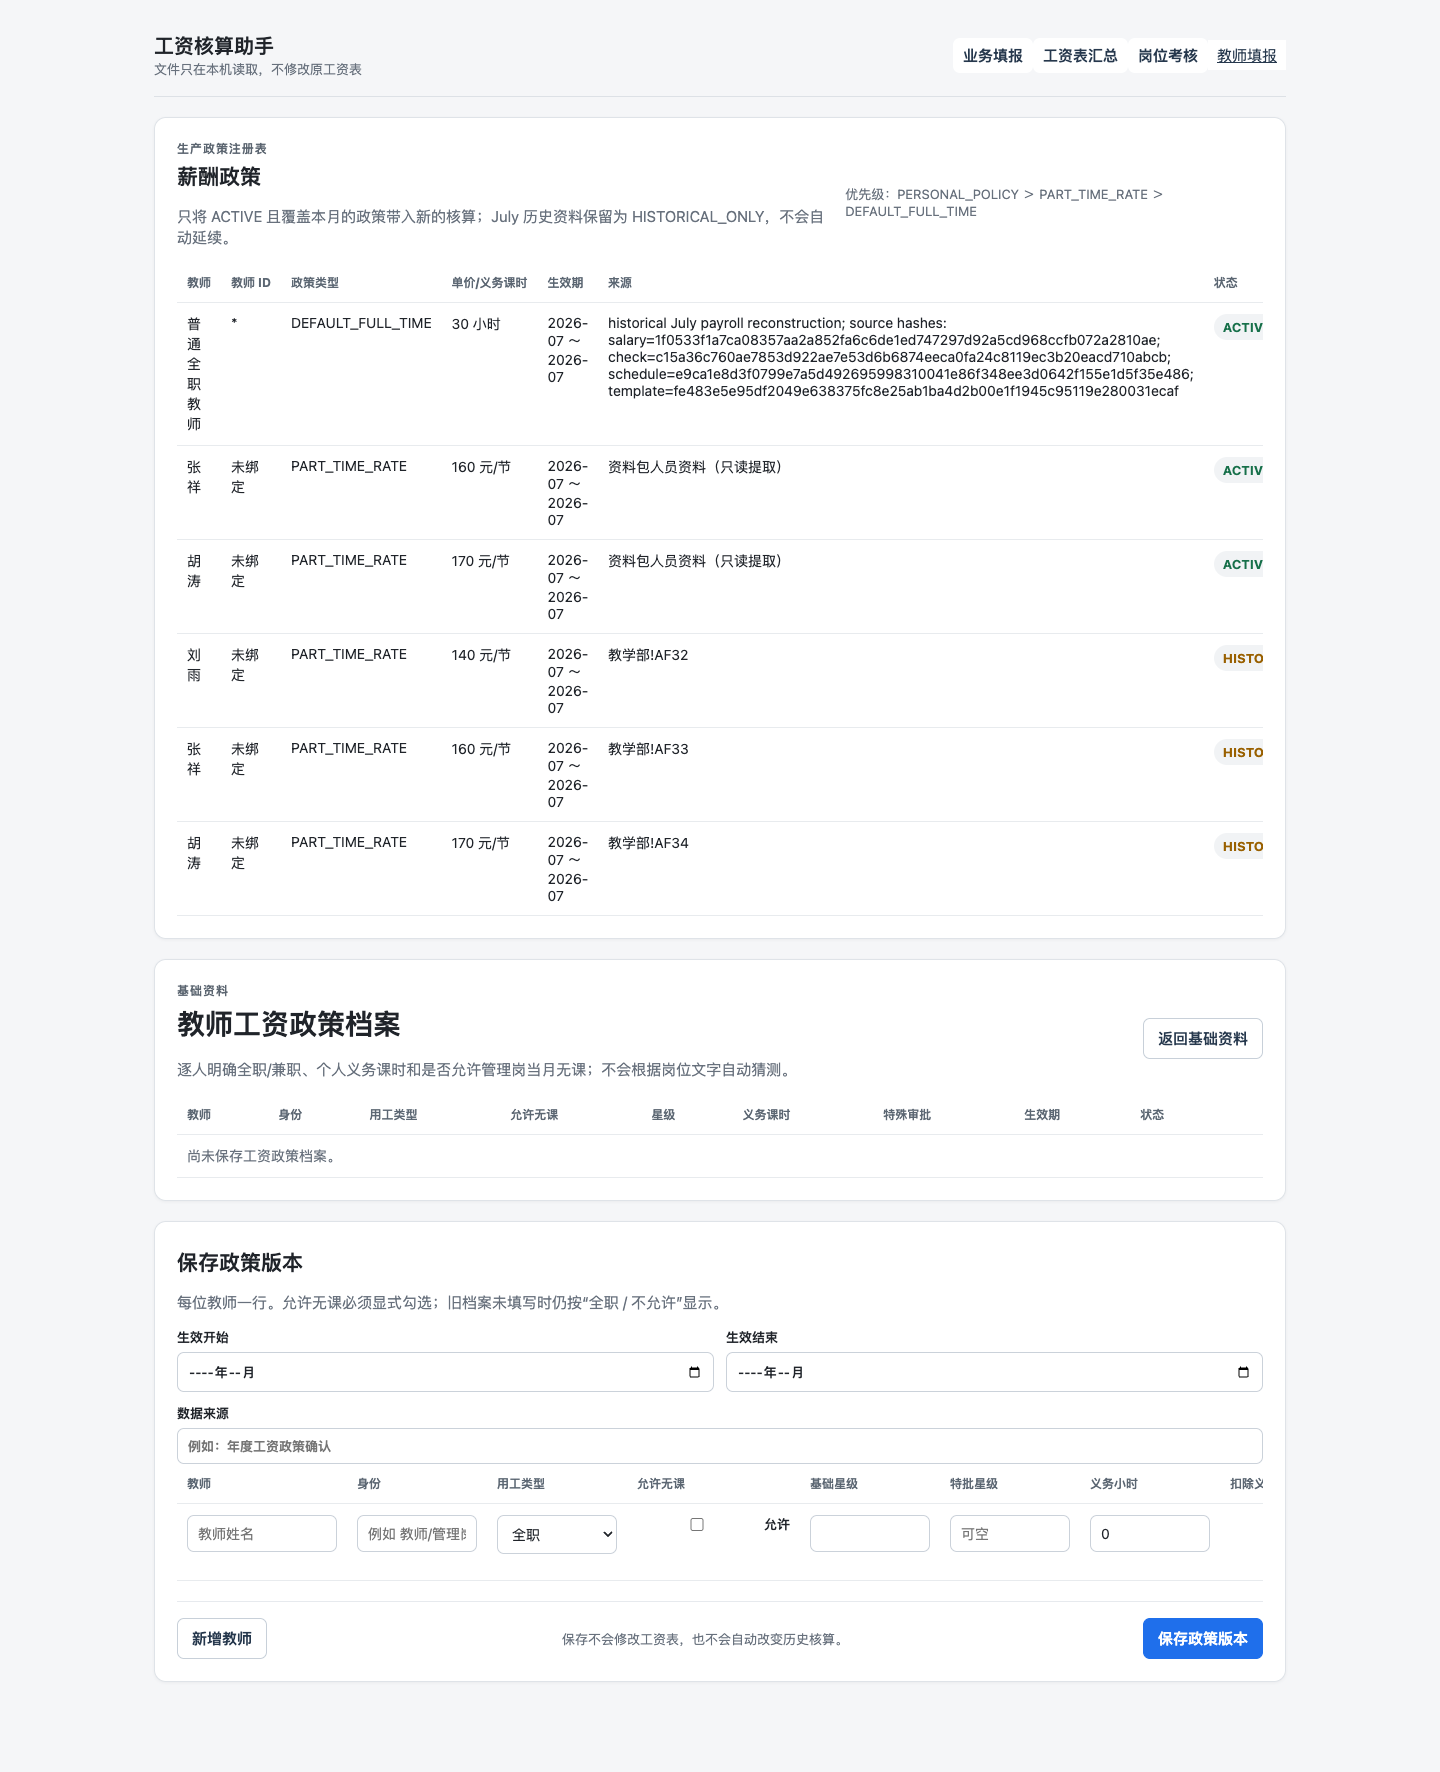
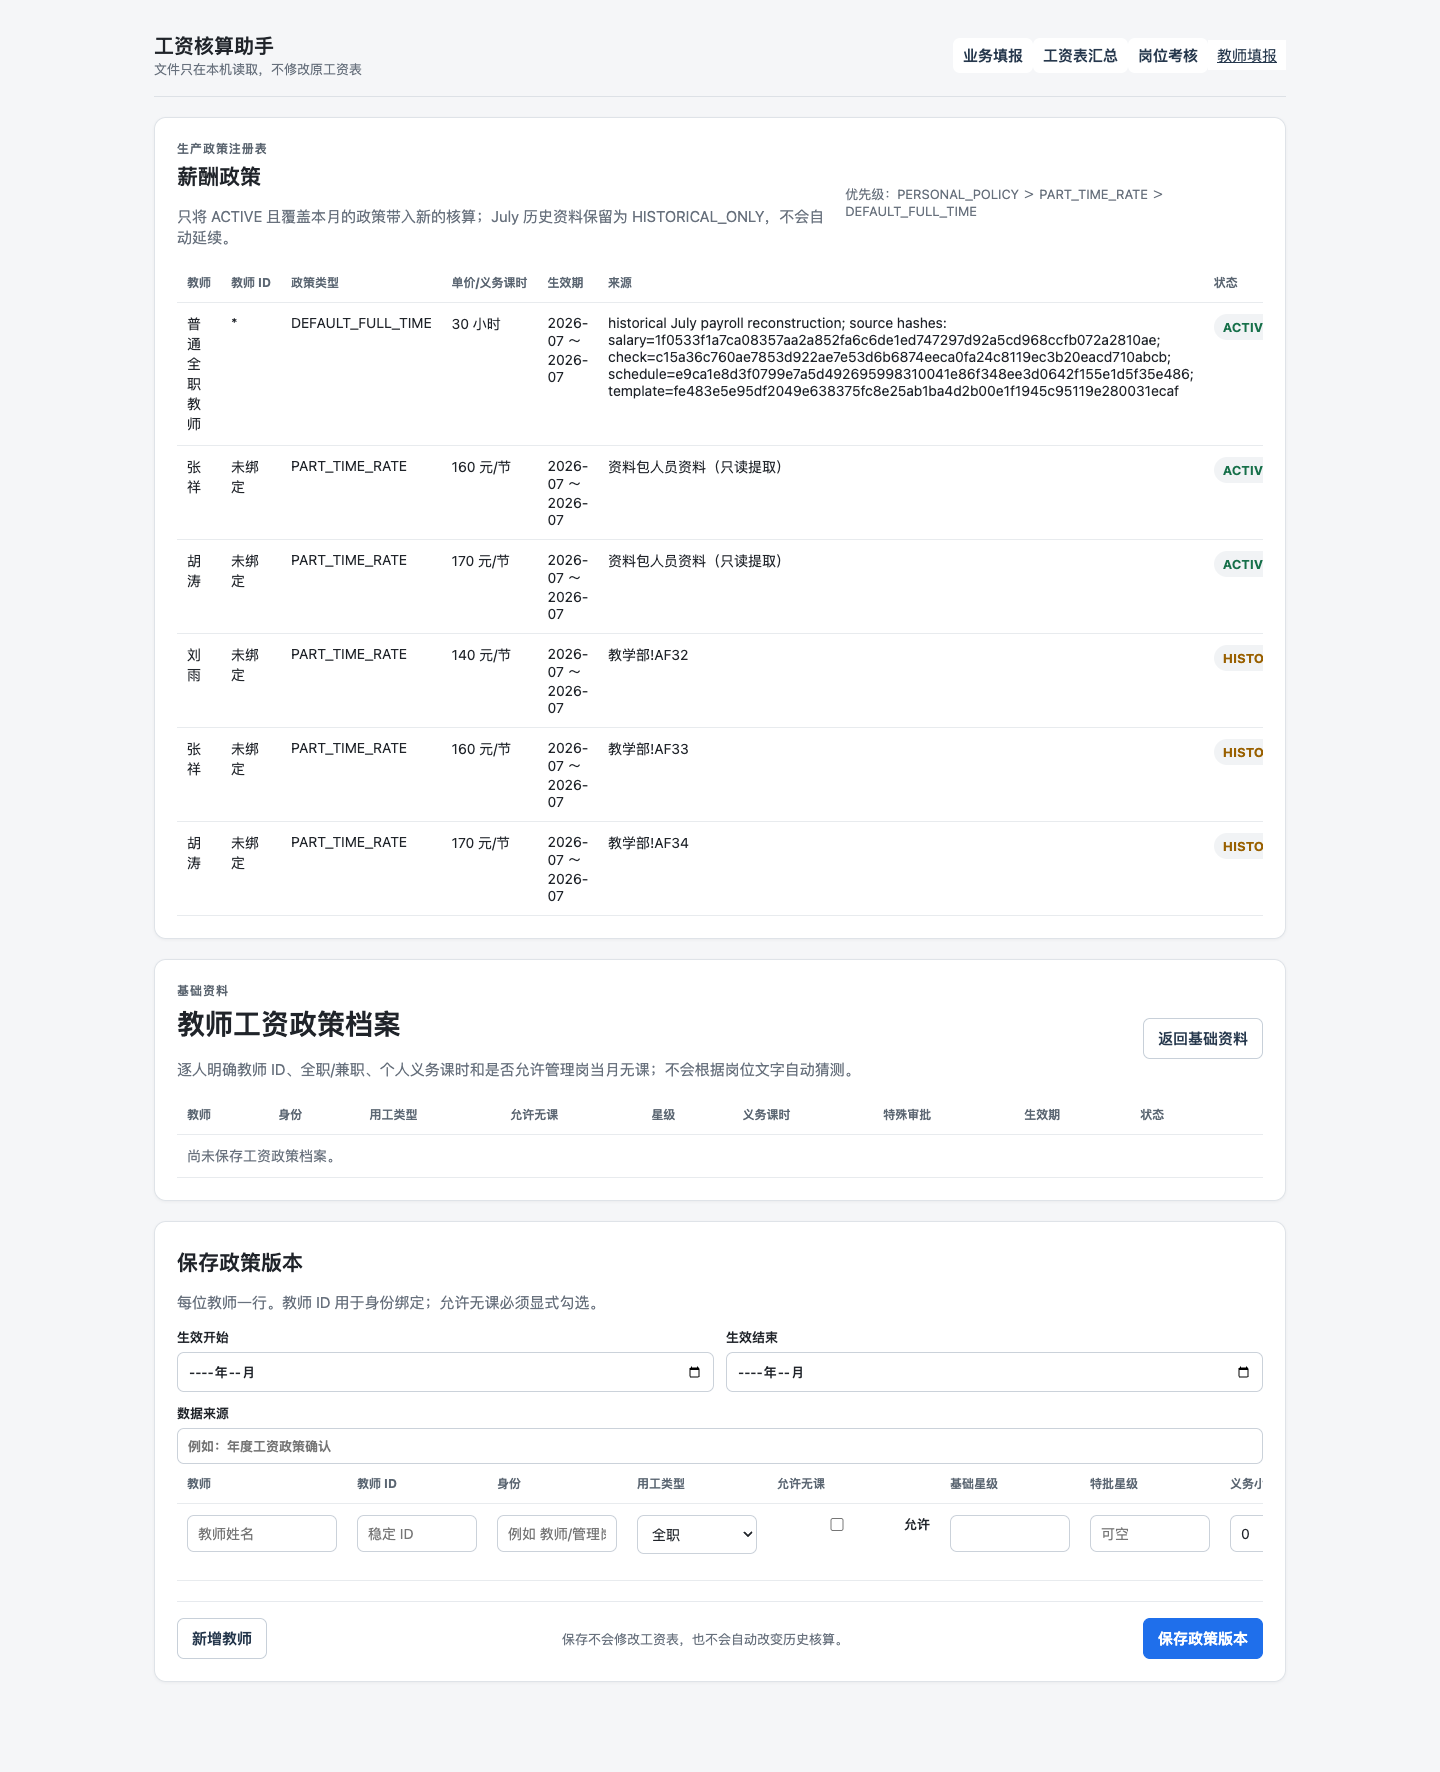
feat: expose policy identity binding in UI

diff --git a/payroll_ui/static/app.js b/payroll_ui/static/app.js
@@ -313,13 +313,13 @@ async function policyDashboard(returnRunId = "", correctionId = "") {
     policyProfileRows = correction?.profiles ? JSON.parse(JSON.stringify(correction.profiles)) : [{}];
     const registryRows = (registry.rows || []).map((item) => `<tr><td>${escapeHtml(item.display_name || "—")}</td><td>${escapeHtml(item.teacher_id || "未绑定")}</td><td>${escapeHtml(item.policy_type)}</td><td>${item.rate == null ? (item.obligation_hours == null ? "—" : `${item.obligation_hours} 小时`) : `${item.rate} 元/节`}</td><td>${escapeHtml(item.effective_from || "—")} ～ ${escapeHtml(item.effective_to || "—")}</td><td>${escapeHtml(item.source || "—")}</td><td><span class="status ${item.status === "ACTIVE" ? "ok" : item.status === "NEEDS_CONFIRMATION" ? "bad" : "warn"}">${escapeHtml(item.status)}</span></td></tr>`).join("");
     const registryPanel = `<section class="card"><div class="section-head"><div><p class="eyebrow">生产政策注册表</p><h2>薪酬政策</h2><p class="muted">只将 ACTIVE 且覆盖本月的政策带入新的核算；July 历史资料保留为 HISTORICAL_ONLY，不会自动延续。</p></div><span class="small muted">优先级：PERSONAL_POLICY ＞ PART_TIME_RATE ＞ DEFAULT_FULL_TIME</span></div><div class="table-wrap"><table class="table"><thead><tr><th>教师</th><th>教师 ID</th><th>政策类型</th><th>单价/义务课时</th><th>生效期</th><th>来源</th><th>状态</th></tr></thead><tbody>${registryRows || '<tr><td colspan="7" class="muted">当前月份暂无政策记录。</td></tr>'}</tbody></table></div></section>`;
-    shell(`${registryPanel}<section class="card"><div class="section-head"><div><p class="eyebrow">基础资料</p><h1>教师工资政策档案</h1><p class="muted">逐人明确全职/兼职、个人义务课时和是否允许管理岗当月无课；不会根据岗位文字自动猜测。</p></div><button class="secondary" onclick="${returnRunId ? `authorityDashboard('${returnRunId}')` : "authorityDashboard()"}">返回基础资料</button></div><div class="table-wrap"><table class="table"><thead><tr><th>教师</th><th>身份</th><th>用工类型</th><th>允许无课</th><th>星级</th><th>义务课时</th><th>特殊审批</th><th>生效期</th><th>状态</th><th></th></tr></thead><tbody>${rows.join("") || '<tr><td colspan="10" class="muted">尚未保存工资政策档案。</td></tr>'}</tbody></table></div></section><section class="card"><h2>${correction ? "创建政策修正版" : "保存政策版本"}</h2><p class="muted">每位教师一行。允许无课必须显式勾选；旧档案未填写时仍按“全职 / 不允许”显示。</p><input id="policy-supersedes" type="hidden" value="${escapeHtml(correction?.id || "")}"><div class="decision-form"><label>生效开始<input id="policy-from" type="month" value="${escapeHtml(correction?.effective_from || "")}"></label><label>生效结束<input id="policy-to" type="month" value="${escapeHtml(correction?.effective_to || "")}"></label><label class="wide">数据来源<input id="policy-source" value="${escapeHtml(correction?.source || "")}" placeholder="例如：年度工资政策确认"></label></div><div class="table-wrap"><table class="table editable-table"><thead><tr><th>教师</th><th>身份</th><th>用工类型</th><th>允许无课</th><th>基础星级</th><th>特批星级</th><th>义务小时</th><th>扣除义务小时</th><th>特殊审批</th><th></th></tr></thead><tbody id="policy-profile-editor">${policyProfileRows.map(policyProfileEditorRow).join("")}</tbody></table></div><div class="action-bar"><button type="button" class="secondary" onclick="addPolicyProfileRow()">新增教师</button><span class="muted small">保存不会修改工资表，也不会自动改变历史核算。</span><button onclick="savePolicies('${returnRunId}')">保存政策版本</button></div></section>`, false);
+    shell(`${registryPanel}<section class="card"><div class="section-head"><div><p class="eyebrow">基础资料</p><h1>教师工资政策档案</h1><p class="muted">逐人明确教师 ID、全职/兼职、个人义务课时和是否允许管理岗当月无课；不会根据岗位文字自动猜测。</p></div><button class="secondary" onclick="${returnRunId ? `authorityDashboard('${returnRunId}')` : "authorityDashboard()"}">返回基础资料</button></div><div class="table-wrap"><table class="table"><thead><tr><th>教师</th><th>身份</th><th>用工类型</th><th>允许无课</th><th>星级</th><th>义务课时</th><th>特殊审批</th><th>生效期</th><th>状态</th><th></th></tr></thead><tbody>${rows.join("") || '<tr><td colspan="10" class="muted">尚未保存工资政策档案。</td></tr>'}</tbody></table></div></section><section class="card"><h2>${correction ? "创建政策修正版" : "保存政策版本"}</h2><p class="muted">每位教师一行。教师 ID 用于身份绑定；允许无课必须显式勾选。</p><input id="policy-supersedes" type="hidden" value="${escapeHtml(correction?.id || "")}"><div class="decision-form"><label>生效开始<input id="policy-from" type="month" value="${escapeHtml(correction?.effective_from || "")}"></label><label>生效结束<input id="policy-to" type="month" value="${escapeHtml(correction?.effective_to || "")}"></label><label class="wide">数据来源<input id="policy-source" value="${escapeHtml(correction?.source || "")}" placeholder="例如：年度工资政策确认"></label></div><div class="table-wrap"><table class="table editable-table"><thead><tr><th>教师</th><th>教师 ID</th><th>身份</th><th>用工类型</th><th>允许无课</th><th>基础星级</th><th>特批星级</th><th>义务小时</th><th>扣除义务小时</th><th>特殊审批</th><th></th></tr></thead><tbody id="policy-profile-editor">${policyProfileRows.map(policyProfileEditorRow).join("")}</tbody></table></div><div class="action-bar"><button type="button" class="secondary" onclick="addPolicyProfileRow()">新增教师</button><span class="muted small">保存不会修改工资表，也不会自动改变历史核算。</span><button onclick="savePolicies('${returnRunId}')">保存政策版本</button></div></section>`, false);
   } catch (error) { showMessage(error.message); }
 }
 
 function policyProfileEditorRow(profile = {}) {
   const employment = profile.employment_type || "FULL_TIME";
-  return `<tr><td><input class="policy-teacher" value="${escapeHtml(profile.teacher || "")}" placeholder="教师姓名"></td><td><input class="policy-role" value="${escapeHtml(profile.role || "")}" placeholder="例如 教师/管理岗"></td><td><select class="policy-employment">${option("FULL_TIME", employment, "全职")}${option("PART_TIME", employment, "兼职")}</select></td><td><label class="inline-check"><input class="policy-no-teaching" type="checkbox" ${profile.allow_no_teaching ? "checked" : ""}>允许</label></td><td><input class="policy-rating" type="number" min="1" max="6" step="1" value="${escapeHtml(profile.rating ?? "")}"></td><td><input class="policy-rating-override" type="number" min="1" max="6" step="1" value="${escapeHtml(profile.rating_override ?? "")}" placeholder="可空"></td><td><input class="policy-obligation" type="number" min="0" step="0.01" value="${escapeHtml(profile.obligation_hours ?? 0)}"></td><td><label class="inline-check"><input class="policy-deduct" type="checkbox" ${profile.obligation_hours_deduction_enabled ? "checked" : ""}>扣除</label></td><td><input class="policy-approval" value="${escapeHtml(profile.special_approval || "")}" placeholder="可空"></td><td><button type="button" class="quiet danger-link" onclick="this.closest('tr').remove()">删除</button></td></tr>`;
+  return `<tr><td><input class="policy-teacher" value="${escapeHtml(profile.teacher || "")}" placeholder="教师姓名"></td><td><input class="policy-teacher-id" value="${escapeHtml(profile.teacher_id || "")}" placeholder="稳定 ID"></td><td><input class="policy-role" value="${escapeHtml(profile.role || "")}" placeholder="例如 教师/管理岗"></td><td><select class="policy-employment">${option("FULL_TIME", employment, "全职")}${option("PART_TIME", employment, "兼职")}</select></td><td><label class="inline-check"><input class="policy-no-teaching" type="checkbox" ${profile.allow_no_teaching ? "checked" : ""}>允许</label></td><td><input class="policy-rating" type="number" min="1" max="6" step="1" value="${escapeHtml(profile.rating ?? "")}"></td><td><input class="policy-rating-override" type="number" min="1" max="6" step="1" value="${escapeHtml(profile.rating_override ?? "")}" placeholder="可空"></td><td><input class="policy-obligation" type="number" min="0" step="0.01" value="${escapeHtml(profile.obligation_hours ?? 0)}"></td><td><label class="inline-check"><input class="policy-deduct" type="checkbox" ${profile.obligation_hours_deduction_enabled ? "checked" : ""}>扣除</label></td><td><input class="policy-approval" value="${escapeHtml(profile.special_approval || "")}" placeholder="可空"></td><td><button type="button" class="quiet danger-link" onclick="this.closest('tr').remove()">删除</button></td></tr>`;
 }
 
 function addPolicyProfileRow() { $("#policy-profile-editor")?.insertAdjacentHTML("beforeend", policyProfileEditorRow()); }
@@ -327,6 +327,7 @@ function addPolicyProfileRow() { $("#policy-profile-editor")?.insertAdjacentHTML
 function collectPolicyProfiles() {
   return editorRows("#policy-profile-editor").map((row) => ({
     teacher: inputValue(row, ".policy-teacher"),
+    teacher_id: inputValue(row, ".policy-teacher-id"),
     role: inputValue(row, ".policy-role"),
     employment_type: inputValue(row, ".policy-employment") || "FULL_TIME",
     allow_no_teaching: Boolean(row.querySelector(".policy-no-teaching")?.checked),
